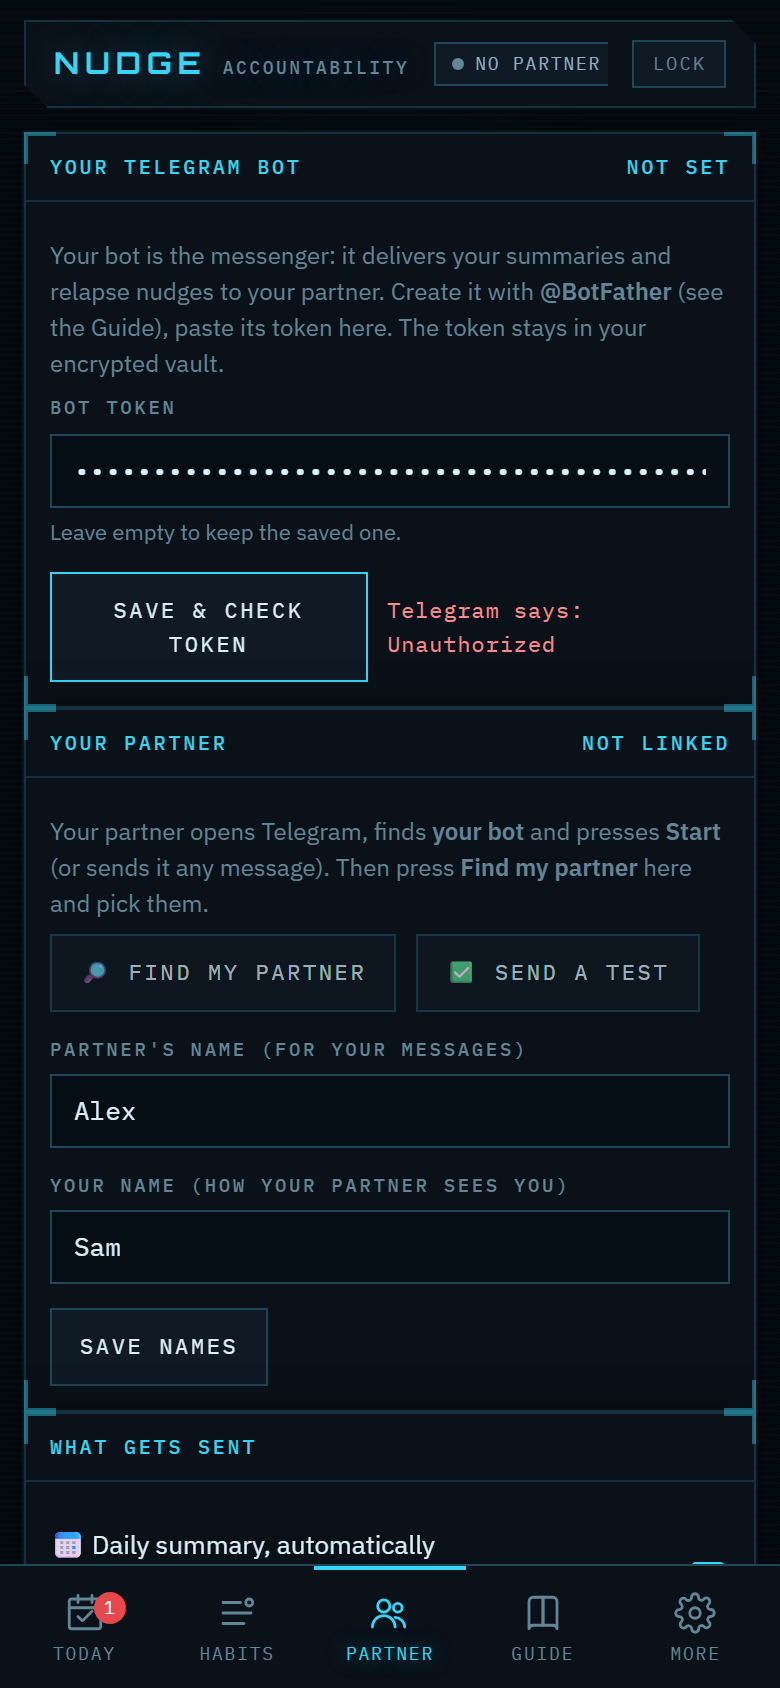
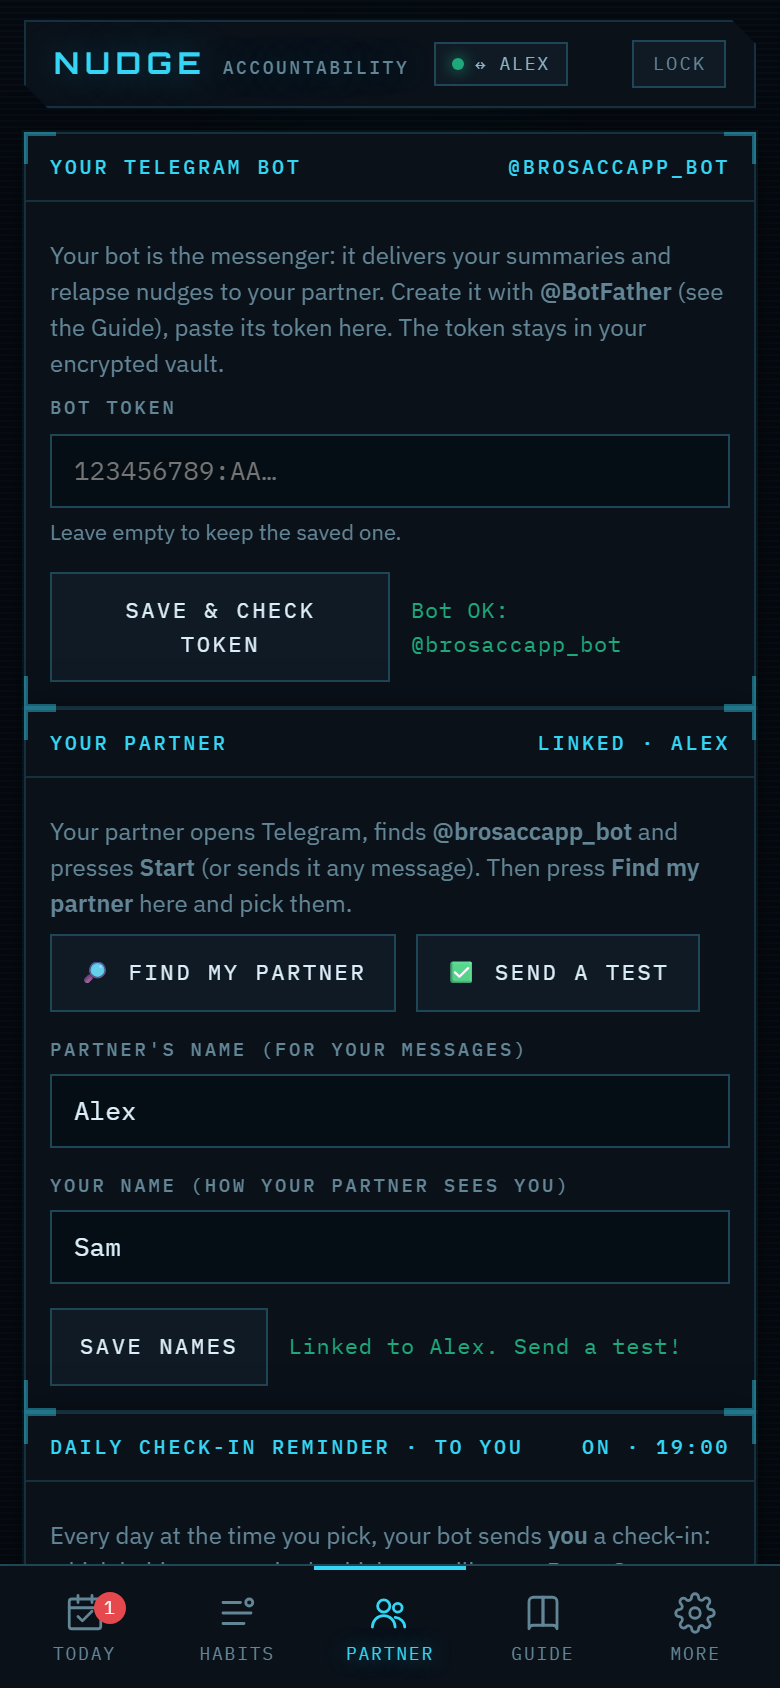
Daily check-in reminder to yourself, message preview, new screenshots
- Reminder: Find me (your own chat on your bot), a time (19:00 default), on/off;
  the app sends you what is marked and what is still open when it is open at
  that time or next opened that day; a cron address (token hidden on screen)
  for guaranteed delivery with the app closed. Guide section added.
- Partner tab: preview of the exact daily, weekly and relapse texts; the
  preview refreshes when the tab opens.
- Native date/time controls in dark. README: phone screenshots two per row
  with explanations; screenshots taken with a real bot and throwaway data.

diff --git a/index.html b/index.html
@@ -35,7 +35,7 @@
   --track:.14em; --dock:62px; --safe:env(safe-area-inset-bottom, 0px);
 }
 *{box-sizing:border-box}
-html{scrollbar-width:thin;scrollbar-color:var(--line2) transparent;-webkit-text-size-adjust:100%}
+html{color-scheme:dark;scrollbar-width:thin;scrollbar-color:var(--line2) transparent;-webkit-text-size-adjust:100%}   /* native date / time pickers in dark */
 body{margin:0;background:var(--bg);color:var(--ink);min-height:100vh;font-family:"IBM Plex Sans",ui-sans-serif,system-ui,sans-serif;
   font-size:14px;line-height:1.5;-webkit-font-smoothing:antialiased;padding-bottom:calc(var(--dock) + var(--safe))}
 body::before{content:"";position:fixed;inset:0;z-index:0;pointer-events:none;
@@ -164,6 +164,11 @@ p.note{font-size:12px;color:var(--ink3);line-height:1.5;margin:6px 0}
 .chatlist button{display:flex;justify-content:space-between;gap:8px;width:100%;text-align:left;padding:9px 10px;border:1px solid var(--line);background:var(--surface2);margin-top:6px}
 .chatlist button:hover{border-color:var(--accent)}
 .chatlist .cid{font-family:"IBM Plex Mono",monospace;color:var(--ink3);font-size:11px}
+.bubbles{display:flex;flex-direction:column;gap:10px}
+.bubble{max-width:92%;background:var(--surface2);border:1px solid var(--line2);border-left:2px solid var(--accent);padding:9px 12px;white-space:pre-wrap;font-size:13px;line-height:1.5;color:var(--ink);
+  clip-path:polygon(0 0, calc(100% - 9px) 0, 100% 9px, 100% 100%, 0 100%)}
+.bubble .from{display:block;font-family:"IBM Plex Mono",monospace;font-size:9px;letter-spacing:.12em;text-transform:uppercase;color:var(--accent);margin-bottom:4px}
+.bubble.sos{border-left-color:var(--crit)} .bubble.sos .from{color:#ff8a8e}
 .log{font-family:"IBM Plex Mono",monospace;font-size:11px;color:var(--ink3);line-height:1.5}
 .log div{padding:4px 0;border-bottom:1px solid var(--grid)} .log b{color:var(--ink2);font-weight:500}
 
@@ -296,11 +301,32 @@ p.note{font-size:12px;color:var(--ink3);line-height:1.5;margin:6px 0}
       </div>
     </div>
     <div class="panel"><i class="br"></i>
+      <div class="ph"><span class="k">Daily check-in reminder · to you</span><span class="k" id="remState">off</span></div>
+      <div class="pb">
+        <p class="note">Every day at the time you pick, your bot sends <b>you</b> a check-in: which habits are marked, which are still open. Press <b>Start</b> on your own bot in Telegram, then <b>Find me</b>.</p>
+        <div class="row"><button class="btn" id="findMeBtn">🔎 Find me</button><button class="btn" id="remTestBtn">📨 Send it now</button></div>
+        <div class="chatlist" id="meList"></div>
+        <div class="row" style="margin-top:12px;gap:14px;flex-wrap:wrap">
+          <div class="field" style="margin:0"><label class="k" for="remTime">Time</label><input type="time" id="remTime" value="19:00" style="width:130px"></div>
+          <label class="toggle" style="border:0;padding:0;gap:8px"><input type="checkbox" id="remOn"><span class="tl">Reminder on</span></label>
+        </div>
+        <p class="msg" id="remMsg"></p>
+        <p class="note">The app sends it when it is open at that time (or the next time you open it that day). Nothing can run while the page is closed, so for a guaranteed 7 pm even with the app closed, use the cron option below.</p>
+        <h2 class="sec">Guaranteed, even when the app is closed</h2>
+        <p class="note">A free cron service (for example <a href="https://cron-job.org" target="_blank" rel="noopener">cron-job.org</a>) can call this address every day at your time; Telegram then delivers a fixed check-in listing your habits. The address contains your bot token and your chat id, so only paste it into a service you trust, and regenerate it when your habits change.</p>
+        <div class="code"><span id="cronUrl" style="filter:blur(0)">—</span><button class="mini" id="cronCopy">Copy</button></div>
+        <p class="note" id="cronNote"></p>
+      </div>
+    </div>
+    <div class="panel"><i class="br"></i>
       <div class="ph"><span class="k">What gets sent</span></div>
       <div class="pb">
         <div class="toggle"><div><div class="tl">📅 Daily summary, automatically</div><div class="th">Sent once a day, the moment you have marked every habit for today.</div></div><input type="checkbox" id="autoDaily"></div>
         <div class="toggle"><div><div class="tl">📊 Weekly summary, automatically</div><div class="th">Sent the first time you open the app in a new week, covering the week that ended.</div></div><input type="checkbox" id="autoWeekly"></div>
         <div class="toggle"><div><div class="tl">🚨 Relapse nudges</div><div class="th">The red button on Today. Always sent immediately when you press it.</div></div><input type="checkbox" id="allowSos" checked></div>
+        <h2 class="sec">What your partner gets · preview</h2>
+        <p class="note" style="margin-top:0">The exact texts your bot will deliver, built from your habits as they stand right now.</p>
+        <div class="bubbles" id="previewBubbles"></div>
         <h2 class="sec">Sent log</h2>
         <div class="log" id="sentLog"><div>nothing sent yet</div></div>
       </div>
@@ -357,7 +383,11 @@ p.note{font-size:12px;color:var(--ink3);line-height:1.5;margin:6px 0}
           <li><b>Relapse nudge</b>: the red button, immediately, with the habit at stake and its streak. No typing: with one habit it sends on the spot, with several you tap the one at stake. Agree with your partner what they do when it arrives: call, reply, meet.</li>
         </ol>
 
-        <h3>5 · TROUBLESHOOTING</h3>
+        <h3>5 · A CHECK-IN REMINDER TO YOURSELF, DAILY AT 7 PM</h3>
+        <p>On the <b>Partner</b> tab, under <b>Daily check-in reminder</b>: press Start on your own bot in Telegram, press <b>Find me</b> and pick yourself, choose the time (7 pm by default) and switch it on. At that time your bot messages <i>you</i> with today's check-in: what is marked, what is still open, and a link to mark the rest.</p>
+        <p><b>The catch:</b> a web page cannot do anything while it is closed. The reminder goes out when the app is open at that time (a desktop tab, or the Home Screen app in the foreground), or the moment you open it later that day. For a guaranteed 7 pm with the app closed, use the <b>cron</b> address the app generates: paste it into a free scheduler such as cron-job.org, set it to daily at your time, and Telegram delivers a fixed check-in listing your habits. That address contains your bot token, so choose a service you trust, and regenerate it after you change your habits.</p>
+
+        <h3>6 · TROUBLESHOOTING</h3>
         <ol>
           <li><b>"Unauthorized" when saving the token</b>: the token was copied wrong or revoked. Ask BotFather for <span class="mono">/token</span> again.</li>
           <li><b>Find my partner finds nobody</b>: your partner must message the bot first (press Start). Telegram only keeps those messages for 24 hours, so press Find soon after.</li>
@@ -366,7 +396,7 @@ p.note{font-size:12px;color:var(--ink3);line-height:1.5;margin:6px 0}
           <li><b>Lost passkey</b>: there is no recovery. Clear the browser's site data (or ⚙ &rarr; Reset) and set up again from a backup you can open, or from scratch.</li>
         </ol>
 
-        <h3>6 · PRIVACY MODEL</h3>
+        <h3>7 · PRIVACY MODEL</h3>
         <p>The page is static (it is served from GitHub Pages and contains nothing of yours). Your vault is one encrypted blob in this browser's storage; the key comes from your passkey and is never stored (unless you choose Stay unlocked, which keeps a non-extractable copy of the derived key in this browser only). Telegram sees exactly the messages you send and nothing else. The Sent log is in the vault too.</p>
       </div>
     </div>
@@ -466,7 +496,8 @@ function setMsg(id, text, cls){ const m = $(id); m.textContent = text || ''; m.c
    state (what the vault holds)
    ========================================================================= */
 const BLANK = () => ({ v:1, me:{ name:'' }, partner:{ name:'', chatId:'', chatName:'' }, bot:{ token:'', username:'' },
-  habits:[], settings:{ autoDaily:true, autoWeekly:true, allowSos:true, weekStart:1, lastDaily:'', lastWeekly:'' }, log:[] });
+  habits:[], settings:{ autoDaily:true, autoWeekly:true, allowSos:true, weekStart:1, lastDaily:'', lastWeekly:'' },
+  reminder:{ enabled:false, time:'19:00', chatId:'', chatName:'', lastSent:'' }, log:[] });
 let S = BLANK();
 let currentTab = 'today', detailId = null;
 
@@ -530,7 +561,7 @@ if (firstRun) { $('lockTitle').textContent = 'SET A PASSKEY'; $('pk2wrap').hidde
 function adopt(data){
   const b = BLANK();
   S = { ...b, ...data, me:{ ...b.me, ...(data.me||{}) }, partner:{ ...b.partner, ...(data.partner||{}) }, bot:{ ...b.bot, ...(data.bot||{}) },
-        settings:{ ...b.settings, ...(data.settings||{}) }, habits: Array.isArray(data.habits) ? data.habits : [], log: Array.isArray(data.log) ? data.log : [] };
+        settings:{ ...b.settings, ...(data.settings||{}) }, reminder:{ ...b.reminder, ...(data.reminder||{}) }, habits: Array.isArray(data.habits) ? data.habits : [], log: Array.isArray(data.log) ? data.log : [] };
   for (const h of S.habits) { h.days ||= {}; h.target = Math.max(1, +h.target || 30); h.type = h.type === 'break' ? 'break' : 'build'; h.start ||= todayKey(); }
 }
 function enter(data){
@@ -539,7 +570,7 @@ function enter(data){
   lockEl.hidden = true; $('app').hidden = false;
   renderAll();
   if (firstRun) showTab(S.habits.length ? 'today' : 'guide');
-  autoWeekly();
+  autoWeekly(); reminderTick();
 }
 async function unlock(){
   lockErr.textContent = '';
@@ -847,7 +878,14 @@ function renderPartner(){
   $('autoDaily').checked = !!S.settings.autoDaily; $('autoWeekly').checked = !!S.settings.autoWeekly; $('allowSos').checked = !!S.settings.allowSos;
   const chip = $('chipPartner'); chip.className = 'chip' + (linked ? ' on' : hasBot ? ' warn' : '');
   $('chipPartnerTxt').textContent = linked ? `↔ ${S.partner.name || S.partner.chatName || 'partner'}` : hasBot ? 'BOT OK · NO PARTNER' : 'NO PARTNER';
-  renderLog();
+  renderLog(); renderPreview(); renderReminder();
+}
+function renderPreview(){
+  const bot = S.bot.username ? '@' + S.bot.username : 'your bot';
+  const sosH = S.habits.find(h => h.type === 'break') || S.habits[0] || null;
+  const sos = [`🚨 ${me()} is about to relapse${sosH ? `: ${sosH.emoji || ''} ${sosH.name}` : ''}`, sosH ? `Streak at stake: 🔥 ${streak(sosH)} days (target ${sosH.target}).` : '', 'Reach out now 🙏'].filter(Boolean).join('\n');
+  const items = S.habits.length ? [['daily', dailyText()], ['weekly', weeklyText(0)], ['sos', sos]] : [['daily', `📅 ${me()}'s check-in · (add habits to see it)`]];
+  $('previewBubbles').innerHTML = items.map(([k, t]) => `<div class="bubble${k === 'sos' ? ' sos' : ''}"><span class="from">${esc(bot)} · ${k === 'sos' ? 'relapse nudge' : k + ' summary'}</span>${esc(t)}</div>`).join('');
 }
 function renderLog(){
   $('sentLog').innerHTML = S.log.length ? S.log.map(l => `<div>${l.ok ? '✅' : '❌'} <b>${new Date(l.t).toLocaleString()}</b> · ${l.kind} ${l.ok ? '' : '· ' + esc(l.err)}<br>${esc(l.text.split('\n')[0])}</div>`).join('') : '<div>nothing sent yet</div>';
@@ -883,6 +921,68 @@ $('testBtn').addEventListener('click', async () => {
 $('namesSaveBtn').addEventListener('click', async () => { S.partner.name = $('partnerName').value.trim(); S.me.name = $('myName').value.trim(); await save(); renderPartner(); renderToday(); setMsg('partnerMsg', 'Saved.', 'ok'); });
 ['autoDaily','autoWeekly','allowSos'].forEach(id => $(id).addEventListener('change', async () => { S.settings[id] = $(id).checked; await save(); renderToday(); }));
 
+/* ---------- daily check-in reminder to the user's own chat ---------- */
+const APP_URL = location.href.split(/[?#]/)[0];
+function reminderText(){
+  const t = todayKey(); const lines = [`📅 Check-in time, ${S.me.name || 'you'}! ${fmtDate(t, { weekday:'short', day:'numeric', month:'short' })}`];
+  let open = 0;
+  for (const h of S.habits) { const v = val(h, t), brk = h.type === 'break', st = streak(h);
+    if (v === 1) lines.push(`✅ ${h.emoji || ''} ${h.name} — ${brk ? 'clean' : 'done'} · 🔥 ${st}/${h.target}`);
+    else if (v === 0) lines.push(`${brk ? '💥' : '❌'} ${h.emoji || ''} ${h.name} — ${brk ? 'slipped' : 'missed'}`);
+    else { open++; lines.push(`⬜ ${h.emoji || ''} ${h.name} — not marked yet (🔥 ${st}${brk ? ' clean' : ''})`); } }
+  lines.push(open ? `${open} still open. Mark today: ${APP_URL}` : `All marked. Nice. ✨`);
+  return lines.join('\n');
+}
+function cronText(){
+  const list = S.habits.map(h => `${h.emoji || ''} ${h.name}`.trim()).join(' · ');
+  return `📅 ${S.reminder.time} check-in, ${S.me.name || 'you'}! Mark today in Nudge: ${list || '(your habits)'} → ${APP_URL}`;
+}
+function cronUrl(){
+  if (!S.bot.token || !S.reminder.chatId) return '';
+  return `https://api.telegram.org/bot${S.bot.token}/sendMessage?chat_id=${encodeURIComponent(S.reminder.chatId)}&text=${encodeURIComponent(cronText())}`;
+}
+function renderReminder(){
+  const r = S.reminder, ready = !!(S.bot.token && r.chatId);
+  $('remState').textContent = ready ? (r.enabled ? `on · ${r.time}` : 'off') : 'link yourself first';
+  $('findMeBtn').disabled = !S.bot.token; $('remTestBtn').disabled = !ready; $('remOn').disabled = !ready; $('remOn').checked = !!r.enabled; $('remTime').value = r.time || '19:00';
+  const u = cronUrl();
+  $('cronUrl').textContent = u ? u.replace(/bot\d+:[^/]+/, 'bot•••••••••••••••') : 'link yourself first';
+  $('cronCopy').disabled = !u;
+  $('cronNote').textContent = u ? `Copy keeps the real token; the display hides it. Schedule it daily at ${r.time} in your cron service.` : '';
+}
+async function sendReminder(auto){
+  if (!S.bot.token || !S.reminder.chatId) return;
+  try { await tg('sendMessage', { chat_id:S.reminder.chatId, text:reminderText() }); logSent('reminder', reminderText(), true); S.reminder.lastSent = todayKey(); await save(); renderLog(); if (!auto) setMsg('remMsg', 'Sent to your Telegram.', 'ok'); else toast('Check-in reminder sent to you 📅'); }
+  catch (e) { logSent('reminder', reminderText(), false, e.message); await save(); renderLog(); if (!auto) setMsg('remMsg', 'Telegram says: ' + e.message, 'err'); }
+}
+function reminderTick(){
+  const r = S.reminder; if (!vaultKey || !r.enabled || !r.chatId || !S.bot.token) return;
+  const t = todayKey(); if (r.lastSent === t) return;
+  const now = new Date(), [hh, mm] = (r.time || '19:00').split(':').map(Number);
+  if (now.getHours() > hh || (now.getHours() === hh && now.getMinutes() >= mm)) sendReminder(true);
+}
+setInterval(reminderTick, 60 * 1000);
+document.addEventListener('visibilitychange', () => { if (!document.hidden) reminderTick(); });
+$('findMeBtn').addEventListener('click', async () => {
+  setMsg('remMsg', 'Asking your bot who has messaged it…'); $('meList').innerHTML = '';
+  try {
+    const ups = await tg('getUpdates', { limit:100, timeout:0, allowed_updates:'["message"]' });
+    const chats = new Map();
+    for (const u of ups) { const c = u.message && u.message.chat; if (c && c.type === 'private') chats.set(String(c.id), `${c.first_name || ''} ${c.last_name || ''}`.trim() + (c.username ? ` @${c.username}` : '')); }
+    if (!chats.size) return setMsg('remMsg', 'Nobody yet. Open your bot in Telegram, press Start, then try again.', 'err');
+    $('meList').innerHTML = [...chats].map(([id, name]) => `<button type="button" data-mid="${id}" data-mn="${esc(name)}"><span>${esc(name || 'unnamed')}</span><span class="cid">${id}</span></button>`).join('');
+    setMsg('remMsg', 'Pick yourself.', 'ok');
+  } catch (e) { setMsg('remMsg', 'Telegram says: ' + e.message, 'err'); }
+});
+$('meList').addEventListener('click', async e => {
+  const b = e.target.closest('[data-mid]'); if (!b) return;
+  S.reminder.chatId = b.dataset.mid; S.reminder.chatName = b.dataset.mn; await save(); $('meList').innerHTML = ''; renderReminder(); setMsg('remMsg', `That's you: ${S.reminder.chatName}. Switch the reminder on.`, 'ok');
+});
+$('remTestBtn').addEventListener('click', () => sendReminder(false));
+$('remOn').addEventListener('change', async () => { S.reminder.enabled = $('remOn').checked; await save(); renderReminder(); if (S.reminder.enabled) reminderTick(); });
+$('remTime').addEventListener('change', async () => { const v = $('remTime').value; if (/^\d\d:\d\d$/.test(v)) { S.reminder.time = v; S.reminder.lastSent = ''; await save(); renderReminder(); } });
+$('cronCopy').addEventListener('click', async () => { const u = cronUrl(); if (!u) return; try { await navigator.clipboard.writeText(u); toast('Cron address copied (contains your token: paste it only into your cron service)'); } catch (e) { toast('Could not copy', true); } });
+
 /* ---------- settings ---------- */
 function renderSettings(){ [...$('weekStart').children].forEach(b => b.classList.toggle('on', +b.dataset.ws === S.settings.weekStart)); }
 $('weekStart').addEventListener('click', async e => { const b = e.target.closest('[data-ws]'); if (b) { S.settings.weekStart = +b.dataset.ws; await save(); renderSettings(); if (detailId) renderDetail(); } });
@@ -890,6 +990,7 @@ $('weekStart').addEventListener('click', async e => { const b = e.target.closest
 /* ---------- tabs ---------- */
 function showTab(t){
   currentTab = t;
+  if (t === 'partner') renderPartner();                      // the preview reflects today's marks
   document.querySelectorAll('section[data-tab]').forEach(s => s.hidden = s.dataset.tab !== t);
   document.querySelectorAll('.dk').forEach(b => b.classList.toggle('on', b.dataset.tab === t));
   window.scrollTo(0, 0);

diff --git a/sw.js b/sw.js
@@ -1,6 +1,6 @@
 /* Nudge service worker: the app shell works offline. Cache-first for the shell files,
    network for everything else (Telegram calls are never cached). Bump CACHE on release. */
-const CACHE = "nudge-v3";
+const CACHE = "nudge-v4";
 const SHELL = ["./", "./index.html", "./manifest.webmanifest", "./icon.svg", "./icon-192.png", "./icon-512.png"];
 
 self.addEventListener("install", (e) => {

diff --git a/README.md b/README.md
@@ -14,26 +14,21 @@ shows how).
 
 ## Screenshots
 
-![First visit: set a passkey; the vault is created in this browser](screenshots/01-first-visit.png)
+<table>
+<tr><td width="50%" valign="top"><img src="screenshots/01-first-visit.png" width="100%" alt="First visit: set a passkey and your first name; the vault is created in this browser."><br><sub>First visit: set a passkey and your first name; the vault is created in this browser.</sub></td><td width="50%" valign="top"><img src="screenshots/02-today.png" width="100%" alt="Today: one tap per habit (did it / not today, clean / slipped), streak and best, progress bar to the target, and the red relapse button."><br><sub>Today: one tap per habit (did it / not today, clean / slipped), streak and best, progress bar to the target, and the red relapse button.</sub></td></tr>
+<tr><td width="50%" valign="top"><img src="screenshots/03-relapse.png" width="100%" alt="About to relapse: with several habits, one tap on the one at stake sends the nudge. Nothing to type."><br><sub>About to relapse: with several habits, one tap on the one at stake sends the nudge. Nothing to type.</sub></td><td width="50%" valign="top"><img src="screenshots/04-habits.png" width="100%" alt="Habits: Build or Break, emoji, target in days, since when; open one to see its history."><br><sub>Habits: Build or Break, emoji, target in days, since when; open one to see its history.</sub></td></tr>
+<tr><td width="50%" valign="top"><img src="screenshots/05-habit-history.png" width="100%" alt="A habit's history: streak, best, days clean, success rate, and 12 weeks you can tap to correct."><br><sub>A habit's history: streak, best, days clean, success rate, and 12 weeks you can tap to correct.</sub></td><td width="50%" valign="top"><img src="screenshots/06-partner.png" width="100%" alt="Partner: your own bot (checked against Telegram), find your partner among the chats that started it, test it."><br><sub>Partner: your own bot (checked against Telegram), find your partner among the chats that started it, test it.</sub></td></tr>
+<tr><td width="50%" valign="top"><img src="screenshots/07-messages.png" width="100%" alt="What your partner receives: the exact daily summary, weekly summary and relapse nudge, plus the sent log."><br><sub>What your partner receives: the exact daily summary, weekly summary and relapse nudge, plus the sent log.</sub></td><td width="50%" valign="top"><img src="screenshots/08-guide.png" width="100%" alt="The Guide: set-up, Home Screen on iPhone / Android / desktop, creating the bots, troubleshooting, privacy."><br><sub>The Guide: set-up, Home Screen on iPhone / Android / desktop, creating the bots, troubleshooting, privacy.</sub></td></tr>
+<tr><td width="50%" valign="top"><img src="screenshots/09-settings.png" width="100%" alt="More: week start, backup and restore of the encrypted vault, change passkey, lock, delete everything."><br><sub>More: week start, backup and restore of the encrypted vault, change passkey, lock, delete everything.</sub></td><td width="50%" valign="top"><img src="screenshots/10-locked.png" width="100%" alt="Locked: a wrong passkey simply fails to decrypt; there is no recovery and no server to ask."><br><sub>Locked: a wrong passkey simply fails to decrypt; there is no recovery and no server to ask.</sub></td></tr>
+<tr><td width="50%" valign="top"><img src="screenshots/12-reminder.png" width="100%" alt="Daily check-in reminder to yourself: find yourself, pick a time, switch it on; cron address for guaranteed delivery"><br><sub>Daily check-in reminder to yourself: pick a time (7 pm by default), switch it on; the cron address gives a guaranteed delivery even with the app closed, token hidden on screen.</sub></td><td width="50%" valign="top"></td></tr>
+</table>
 
-![Today: mark each habit, streaks and progress bars, the relapse button](screenshots/03-today.png)
+<img src="screenshots/11-desktop.png" width="100%" alt="On a desktop the same page centres itself with the tabs on top">
+<br><sub>On a desktop the same page centres itself, with the tabs along the top.</sub>
 
-![A habit's history: 12 weeks, tap a day to correct it](screenshots/04-habit-detail.png)
-
-![About to relapse: one tap on the habit at stake, nothing to type](screenshots/05-relapse-nudge.png)
-
-![Partner tab: your bot token, find your partner, test, what gets sent](screenshots/06-partner.png)
-
-![The Guide: set-up, Home Screen, Telegram bots, troubleshooting](screenshots/02-guide.png)
-
-![Settings: week start, backup and restore, passkey, lock, reset](screenshots/07-settings.png)
-
-![Locked: a wrong passkey simply fails to decrypt](screenshots/08-locked.png)
-
-![On a desktop the same page centres itself with the tabs on top](screenshots/09-desktop.png)
-
-Captured in headless Chromium with a throwaway vault and made-up habits; the Telegram token shown
-in the test run is fake, and Telegram answered it with "Unauthorized", which is what the app shows.
+Taken in a headless browser with throwaway data: the names (Sam, Alex) and habits are made up, the
+token field is never shown filled, and no chat ids appear. The bot and the three example messages
+were real, delivered to a test chat.
 
 ## How it works
 
@@ -54,6 +49,11 @@ in the test run is fake, and Telegram answered it with "Unauthorized", which is 
   - a **weekly summary** on your first visit in a new week (automatic, or the button),
   - a **relapse nudge** the moment you press the red button, with the habit at stake and its
     streak. Nothing to type: one habit sends on the spot, several means one tap on the one at stake.
+- **Daily check-in reminder, to you.** Press Start on your own bot, **Find me**, pick a time (7 pm by
+  default) and switch it on: your bot messages you what is marked and what is still open, with a link.
+  A page can't run while closed, so this goes out when the app is open at that time or when you next
+  open it that day. For a guaranteed time with the app closed, the app generates a cron address (bot
+  token plus your chat id) to paste into a free scheduler such as cron-job.org.
   Tokens are never shared and nothing passes through a third server. You keep talking in your
   normal Telegram chat; the bots only deliver notifications. Both directions work the same way
   with the partner's own bot.
